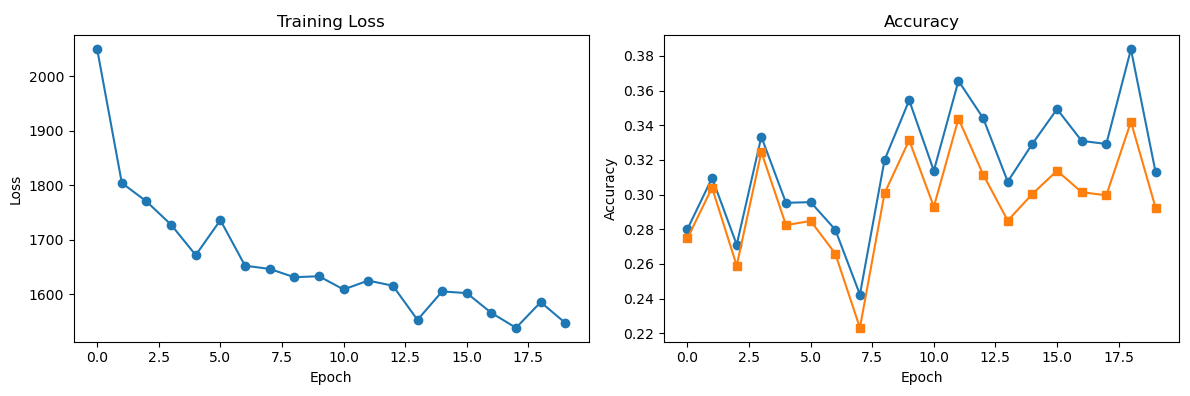
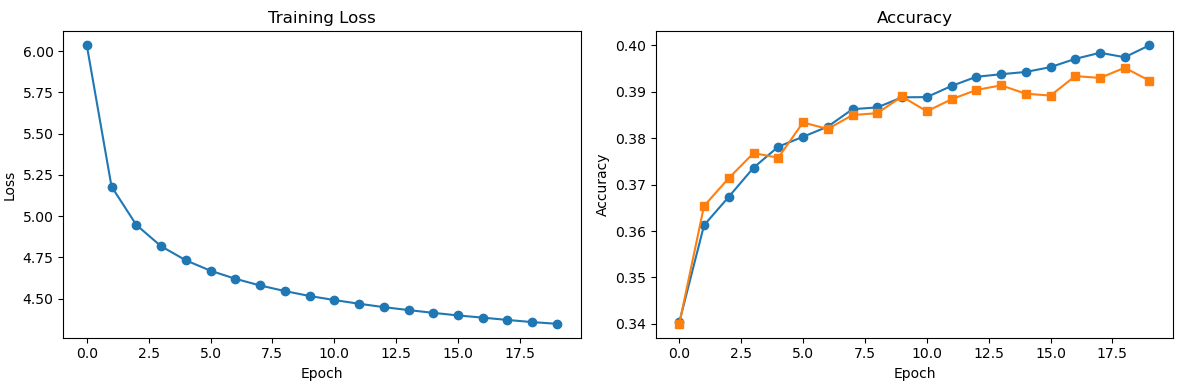
bugs fixed improved accuracy

diff --git a/cv_learn/linear_classifiers/train.py b/cv_learn/linear_classifiers/train.py
@@ -42,6 +42,29 @@ def train(X_train, Y_train, X_val, Y_val, loss_function, learning_rate=0.001, re
     
     return W, loss_history, train_acc_history, val_acc_history
 
+def visualize_weights(W):
+    W_visual = W[:-1, :]  
+    W_img = W_visual.T.reshape(10, 3, 32, 32)
+    W_img = W_img.transpose(0, 2, 3, 1)
+    W_min, W_max = W_img.min(), W_img.max()
+    W_img = (W_img - W_min) / (W_max - W_min)
+
+    classes = ['plane', 'car', 'bird', 'cat', 'deer',
+               'dog', 'frog', 'horse', 'ship', 'truck']
+    
+    fig, axes = plt.subplots(2, 5, figsize=(15, 6))
+
+    for i, ax in enumerate(axes.flat):
+        ax.imshow(W_img[i])
+
+        ax.set_title(f'{classes[i]}', fontsize=12, fontweight='bold')
+
+        ax.axis('off')
+
+    plt.tight_layout()
+    plt.show()
+
+
 def plot_stats(loss_history, train_acc_history, val_acc_history):
     plt.figure(figsize=(12, 4))
     
@@ -92,6 +115,7 @@ def main():
     print(f'\nTest accuracy: {test_acc:.3f}')
     
     plot_stats(loss_hist, train_acc, val_acc)
-
+    visualize_weights(W)
+    
 if __name__ == '__main__':
     main()

diff --git a/cv_learn/linear_classifiers/data_utils.py b/cv_learn/linear_classifiers/data_utils.py
@@ -32,6 +32,9 @@ def preprocess_data(X_train, Y_train, X_test, Y_test):
     X_train -= mean_image   # highlights diffrence b/w imgs
     X_test -= mean_image
     
+    X_train /= 255.0        #reduce scale
+    X_test /= 255.0
+
     X_train = np.hstack([X_train, np.ones((X_train.shape[0], 1))])  #add bias (1) 
     X_test = np.hstack([X_test, np.ones((X_test.shape[0], 1))])
     print("preprocessed CIFAR data")

diff --git a/cv_learn/README.md b/cv_learn/README.md
@@ -49,10 +49,14 @@ python linear_classifiers/train.py --model svm --lr 1e-3 --reg 1e-4 --epochs 20
   <img src="media/SVM_train.png" alt="SVM Training Results" width="700"/>
 </p>
 
-an accuracy of about 31% was achieved for the training set using SVM and the traning loss consistently decreased
+an accuracy of about 40.0% was achieved for the training set using SVM and the traning loss consistently decreased, weights were visualized as shown:
 
+<p align="center">
+  <img src="media/SVM_weight.png" alt="SVM Training Results" width="700"/>
+</p>
 
-After training the Softmax classifier for 30 epochs with a learning rate of 0.001 and a regularization strength of 0.0005, the following results were recieved:.
+---
+After training the Softmax classifier for 30 epochs with a learning rate of 0.001 and a regularization strength of 0.0005, the following results were recieved:
 
 ```
 python linear_classifiers/train.py --model softmax --lr 1e-3 --reg 5e-4 --epochs 30
@@ -61,9 +65,14 @@ python linear_classifiers/train.py --model softmax --lr 1e-3 --reg 5e-4 --epochs
   <img src="media/softmax_train.png" alt="Softmax Training Results" width="700"/>
 </p>
 
-an accuracy of about 30.8% was achieved for the training set using softmax and the traning loss consistently decreased
+an accuracy of about 38.2% was achieved for the training set using softmax and the traning loss consistently decreased, weights were visualized as shown:
 
-After gradient checking an average relative error of 10^-9 was observed for SOFTMAX GRADIENT and an average relative error of 10^-11 was observed for CHECKING SVM GRADIENT:
+<p align="center">
+  <img src="media/softmax_weight.png" alt="Softmax Training Results" width="700"/>
+</p>
+
+---
+After gradient checking an average relative error of 10^-9 was observed for SOFTMAX GRADIENT and an average relative error of 10^-9 was observed for SVM GRADIENT:
 
 <p align="center">
   <img src="media/grad_check.png" alt="Softmax Training Results" width="700"/>
